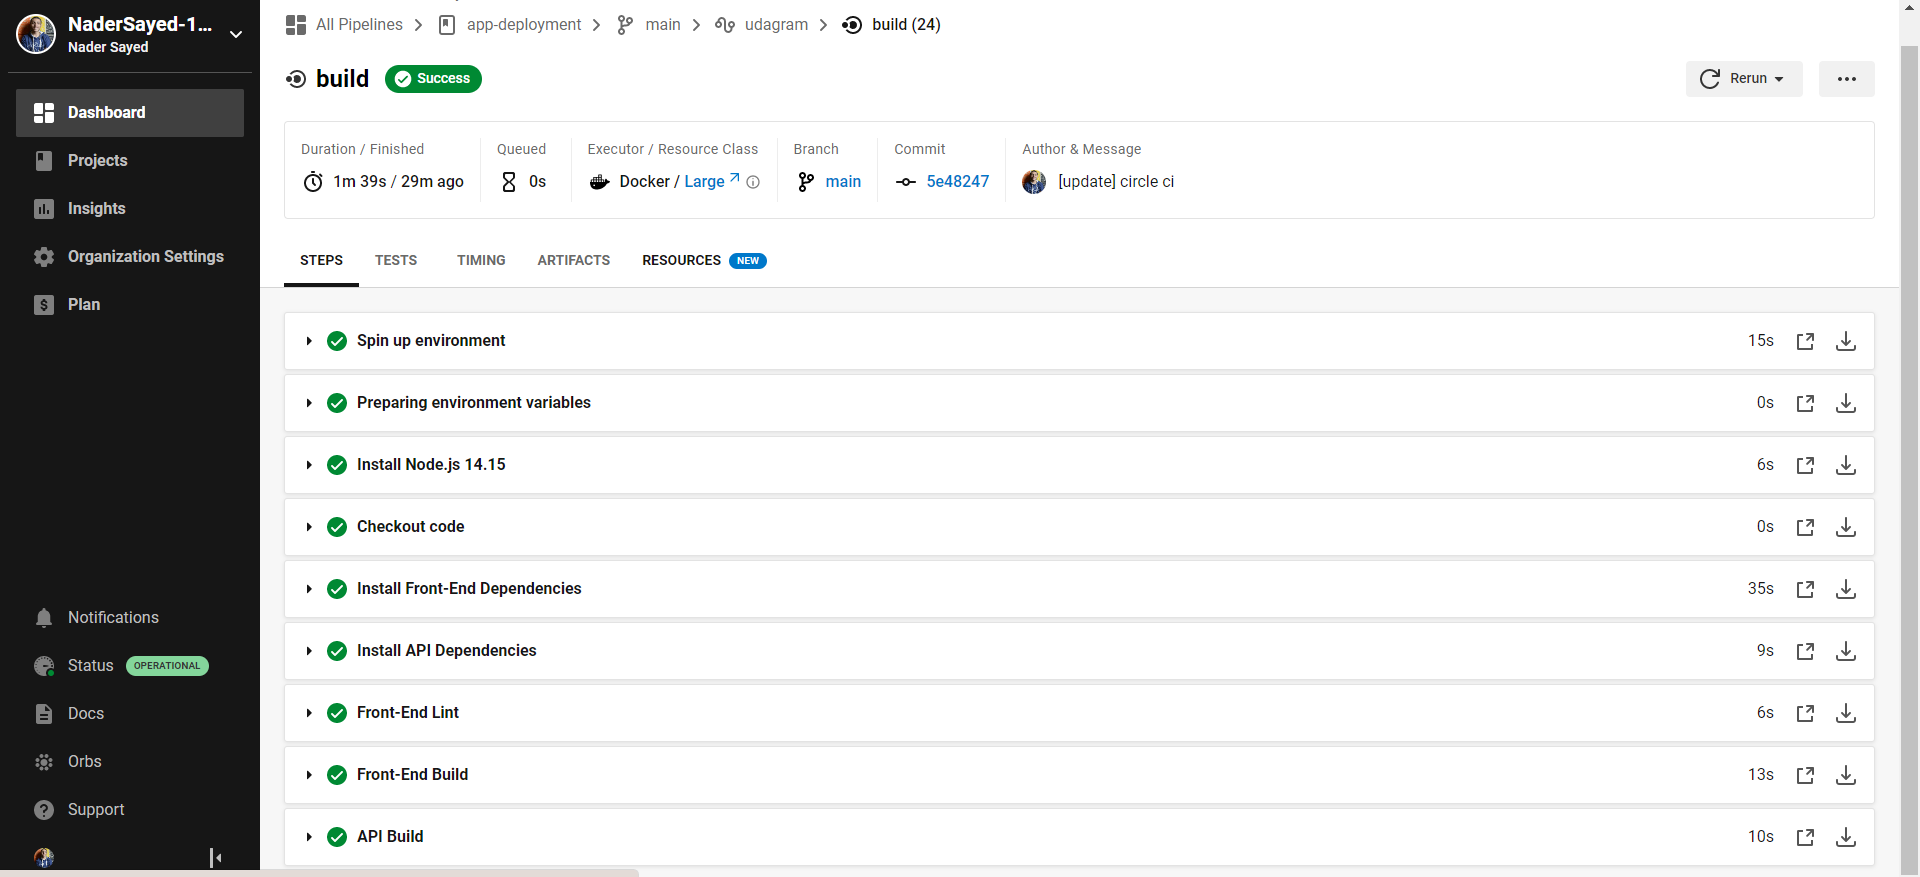
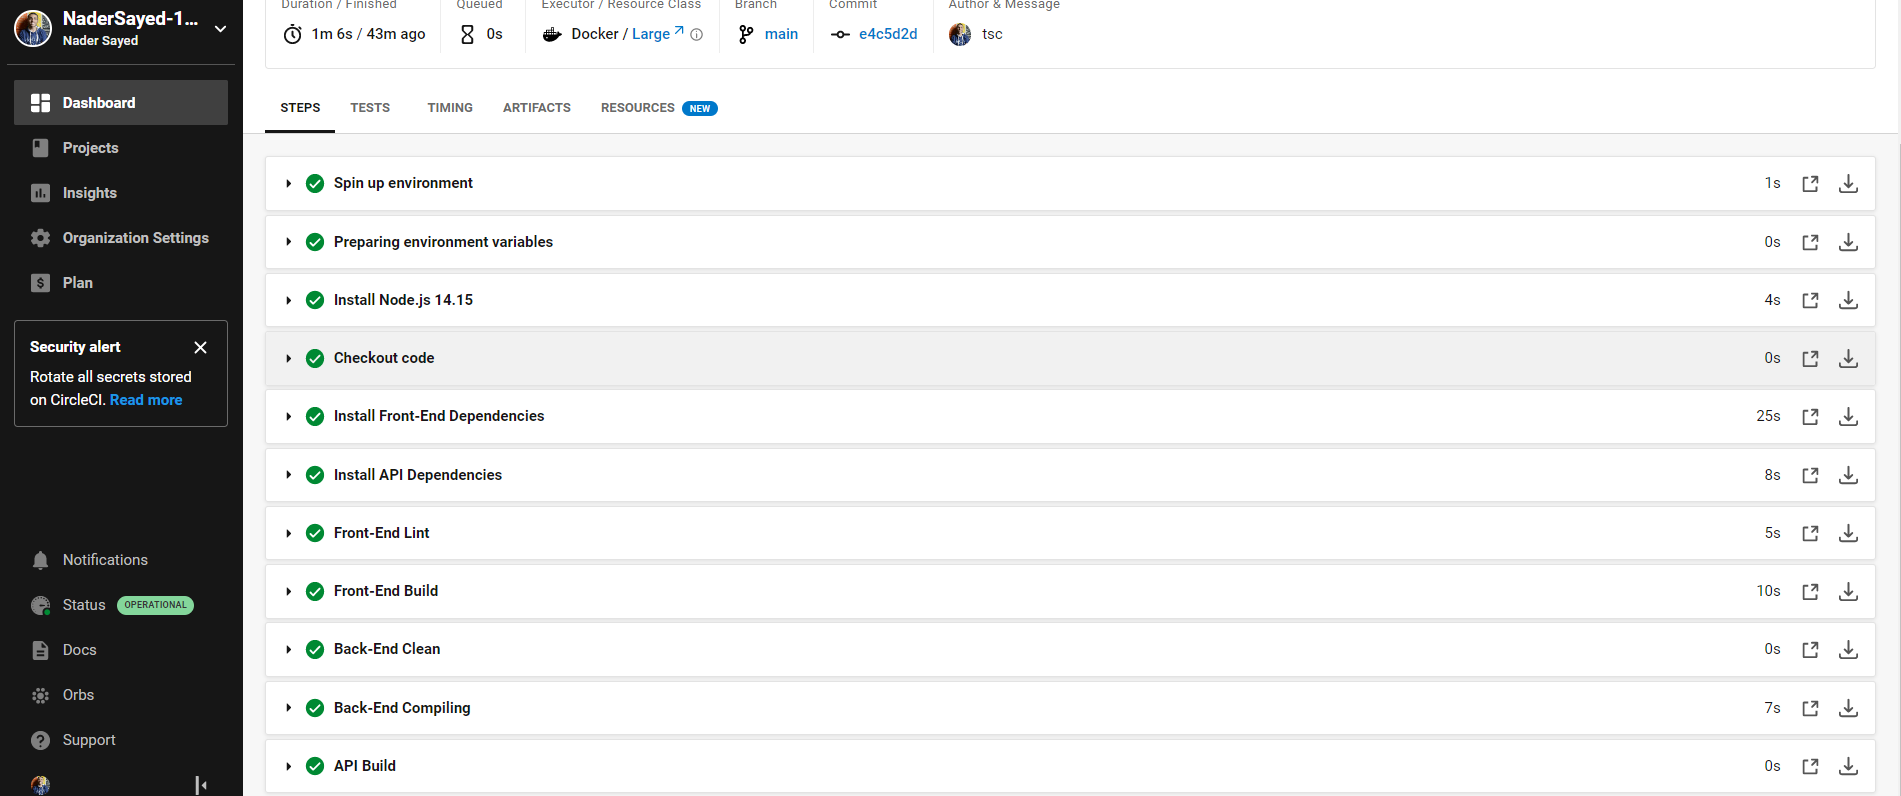
fix env

diff --git a/docs/Deploying.md b/docs/Deploying.md
@@ -14,20 +14,22 @@
 * Building Poject
 * Deploy the project
 
-## Manual Deployment 
+## Manual Deployment
 
 * By running Deploy script on root folder will run deploy script form each front & back
 * using script file in bin folder which contains deployment Scripts
 
 ## CircleCi
 
-### Pipline Process 
+### Pipline Process
 
 * Build
   * Install Front-End Dependencies
   * Install API Dependencies
   * Front-End Lint
   * Front-End Build
+  * Api clean
+  * API compiling ts
   * API Build
 * Holding Stage waiting for deployment approval
 * Deploy
